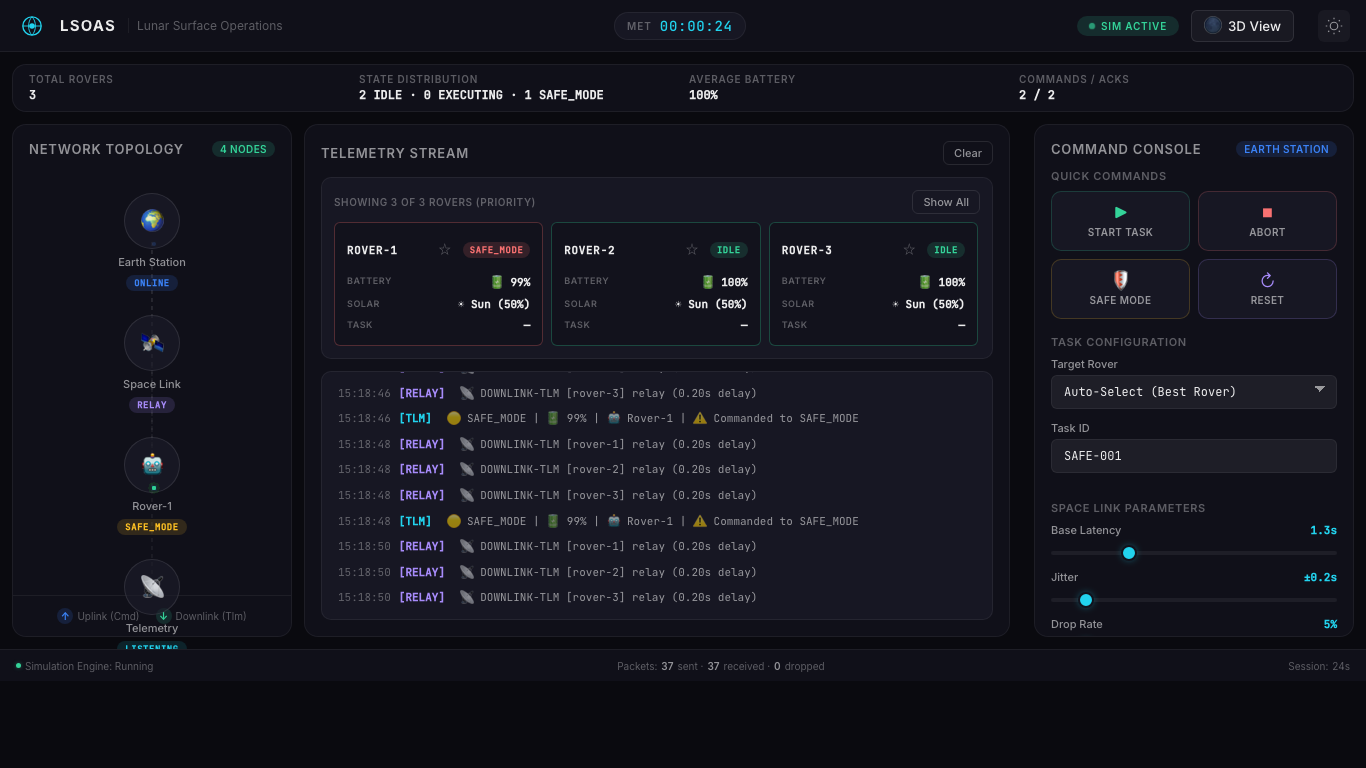
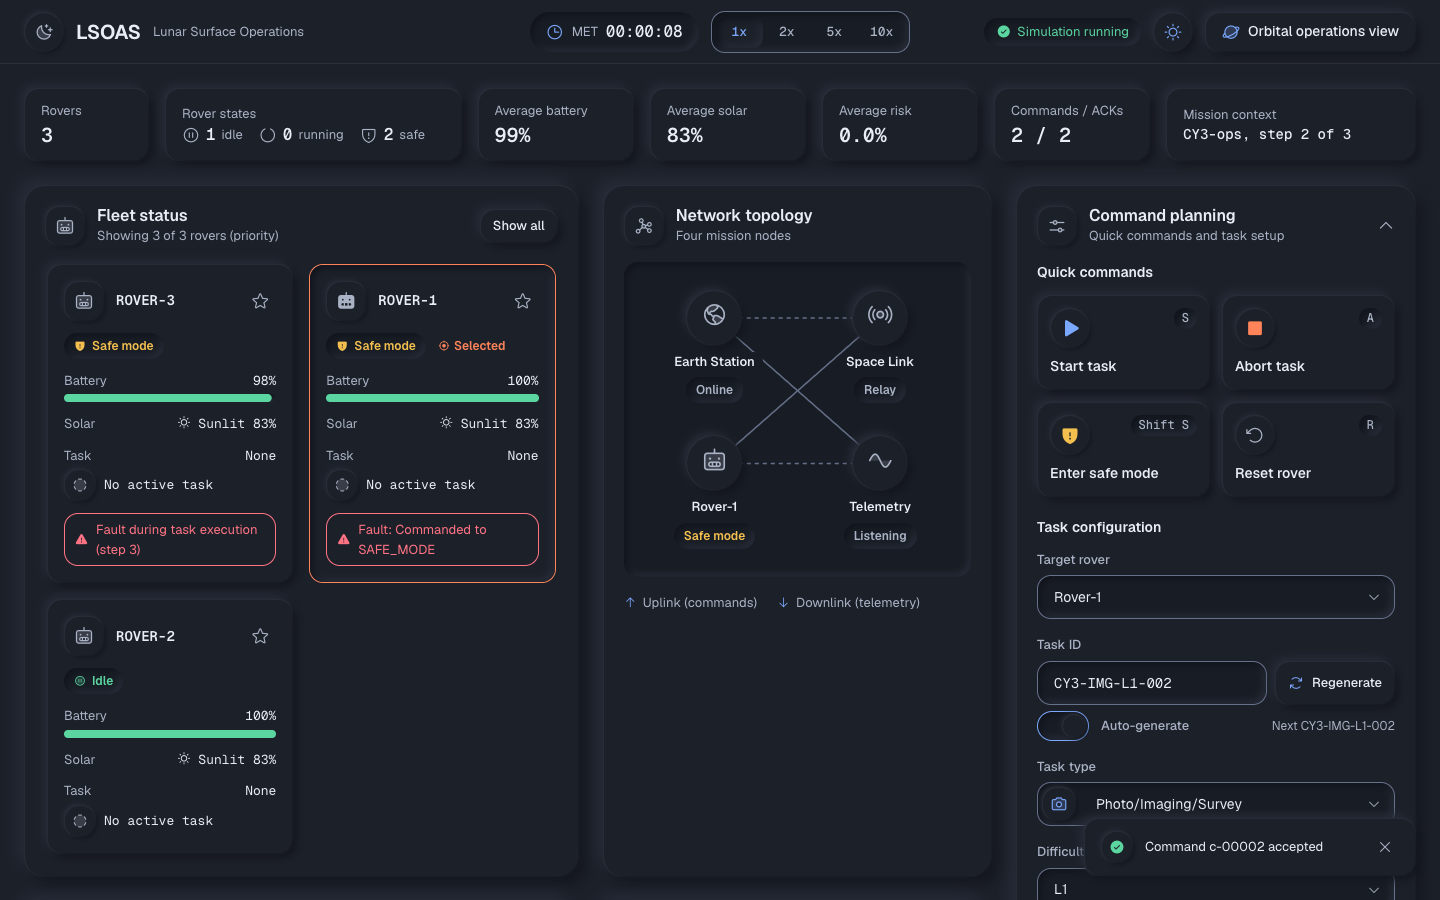
docs(web-sim): copy, facts and README for the soft-UI overhaul
Copy
- Sentence-case state labels in topology chips, one casing for the orbital
  view, no doubled "Fault: Fault" text
- Footer states that telemetry, risk and fault values are simulated
- Mission preset blurbs and tags grounded in the ISRO and JAXA sources:
  CY-3 (LIBS, APXS), CY-4 (drill and scoop, robotic arm, ascent module,
  launch planned 2027-28), LUPEX (JAXA and ISRO, no earlier than 2028),
  base build labeled as a teaching scenario

Accessibility
- Darken light-theme warning and danger colors for a safer AA margin
  (lowest measured text ratio: 4.69:1 light, 5.96:1 dark)

README
- Replace three dead source links (ISRO Chandrayaan-3 updates, Chandrayaan-4
  approval, JAXA LUPEX) with verified ones and add dated mission status
- Label difficulty fault rates as simulation parameters
- Document the web UI files, themes, keyboard shortcuts and test command
- Regenerate all dashboard screenshots from the new UI and add the orbital view

diff --git a/web-sim/app.js b/web-sim/app.js
@@ -124,15 +124,15 @@
     const viewportWidth = window.innerWidth || 1280;
     if (viewportWidth <= 520) return "Orbital";
     if (viewportWidth <= 920) return "Orbital view";
-    return "Orbital Operations View";
+    return "Orbital operations view";
   }
 
   function refreshOrbitalToggleLabel(open) {
     if (!btnToggleLabel) return;
     const nextLabel = getResponsiveOrbitalToggleLabel();
     const actionLabel = open
-      ? "Close Orbital Operations View"
-      : "Open Orbital Operations View";
+      ? "Close orbital operations view"
+      : "Open orbital operations view";
     btnToggleLabel.textContent = nextLabel;
     if (btnToggle) {
       btnToggle.setAttribute("title", actionLabel);
@@ -411,8 +411,8 @@
       mission_phase: "CY3-ops",
       title: "Chandrayaan-3 Pragyan Surface Ops",
       summary:
-        "Traverse, image, and run in-situ surface science analogs around a Pragyan-style landing zone.",
-      payload_tags: ["Pragyan", "LIBS", "APXS", "NavCam"],
+        "Traverse, image and run in-situ science near a Pragyan-style landing zone. Based on Chandrayaan-3, whose rover carried LIBS and APXS spectrometers.",
+      payload_tags: ["Pragyan rover", "LIBS", "APXS", "NavCam"],
       default_target_site: "Shiv Shakti Point Sector-A",
       default_rover_strategy: "rover-1",
       steps: [
@@ -447,8 +447,8 @@
       mission_phase: "CY4-sample-chain",
       title: "Chandrayaan-4 Sample Return Chain",
       summary:
-        "A teaching sequence for prospecting, extraction, sample custody, and transfer preparation.",
-      payload_tags: ["Sampling Drill", "Transfer Canister", "Surface Relay"],
+        "Prospecting, drilling, sample custody and transfer, modeled on ISRO's Chandrayaan-4 sample-return plan (launch planned for 2027-28).",
+      payload_tags: ["Drill and scoop", "Robotic arm", "Ascent module"],
       default_target_site: "Sample Depot Alpha",
       default_rover_strategy: "rover-2",
       steps: [
@@ -491,8 +491,8 @@
       mission_phase: "LUPEX-prospecting",
       title: "LUPEX Polar Ice Prospecting",
       summary:
-        "Polar traverse and subsurface investigation sequence focused on volatile resource mapping.",
-      payload_tags: ["Polar Traverse", "Volatile Mapping", "Drill Ops"],
+        "South polar water-ice survey modeled on the joint JAXA and ISRO LUPEX mission (launch no earlier than 2028).",
+      payload_tags: ["JAXA and ISRO", "Water-ice survey", "Drill"],
       default_target_site: "Polar Shadow Boundary",
       default_rover_strategy: "rover-3",
       steps: [
@@ -527,7 +527,7 @@
       mission_phase: "base-build",
       title: "Future Chandrayaan Base Build",
       summary:
-        "Multipurpose swarm scenario for regolith logistics, infrastructure staging, and base readiness.",
+        "Teaching scenario (not an announced mission): a rover swarm handling regolith logistics and base readiness.",
       payload_tags: ["Swarm Ops", "Regolith Handling", "Infrastructure Build"],
       default_target_site: "Bharati Base Site-01",
       default_rover_strategy: "auto",
@@ -1328,7 +1328,13 @@
     const hasFault = Boolean(snapshot.fault);
     const hadFault = el.dataset.fault === "1";
     r.fault.hidden = !hasFault;
-    if (hasFault) setText(r["fault-text"], `Fault: ${String(snapshot.fault)}`);
+    if (hasFault) {
+      const faultText = String(snapshot.fault);
+      setText(
+        r["fault-text"],
+        /^fault/i.test(faultText) ? faultText : `Fault: ${faultText}`,
+      );
+    }
     el.dataset.fault = hasFault ? "1" : "";
     if (hasFault && !hadFault) LSOASUI.pulse(r["fault-icon"]);
   }
@@ -1921,7 +1927,7 @@
     }
 
     // Selected rover topo node state
-    dom.roverState.textContent = normalizeState(data.state);
+    dom.roverState.textContent = LSOASUI.roverState(data.state).label;
     dom.roverState.className = `topo-node-state ${stateClass}`;
 
     // Add telemetry to feed

diff --git a/web-sim/index.html b/web-sim/index.html
@@ -92,13 +92,13 @@
           class="btn"
           id="btn-3d-toggle"
           type="button"
-          title="Open Orbital Operations View"
-          aria-label="Open Orbital Operations View"
+          title="Open orbital operations view"
+          aria-label="Open orbital operations view"
           aria-expanded="false"
           aria-haspopup="dialog"
         >
           <i class="ph-duotone ph-planet" aria-hidden="true"></i>
-          <span id="btn-3d-toggle-label">Orbital Operations View</span>
+          <span id="btn-3d-toggle-label">Orbital operations view</span>
         </button>
       </div>
     </header>
@@ -214,7 +214,7 @@
                   <span class="topo-node-icon" aria-hidden="true"><i class="ph-duotone ph-globe-hemisphere-west"></i></span>
                 </div>
                 <span class="topo-node-label">Earth Station</span>
-                <span class="topo-node-state" id="earth-state">ONLINE</span>
+                <span class="topo-node-state" id="earth-state">Online</span>
               </div>
 
               <div class="topo-node" id="topo-spacelink" data-node="spacelink" tabindex="0" role="button" aria-label="Space Link node">
@@ -222,7 +222,7 @@
                   <span class="topo-node-icon" aria-hidden="true"><i class="ph-duotone ph-broadcast"></i></span>
                 </div>
                 <span class="topo-node-label">Space Link</span>
-                <span class="topo-node-state" id="spacelink-state">RELAY</span>
+                <span class="topo-node-state" id="spacelink-state">Relay</span>
               </div>
 
               <div class="topo-node" id="topo-rover" data-node="rover" tabindex="0" role="button" aria-label="Lunar Rover node">
@@ -230,7 +230,7 @@
                   <span class="topo-node-icon" aria-hidden="true"><i class="ph-duotone ph-robot"></i></span>
                 </div>
                 <span class="topo-node-label">Lunar Rover</span>
-                <span class="topo-node-state" id="rover-state">IDLE</span>
+                <span class="topo-node-state" id="rover-state">Idle</span>
               </div>
 
               <div class="topo-node" id="topo-telemetry" data-node="telemetry" tabindex="0" role="button" aria-label="Telemetry node">
@@ -238,7 +238,7 @@
                   <span class="topo-node-icon" aria-hidden="true"><i class="ph-duotone ph-wave-sine"></i></span>
                 </div>
                 <span class="topo-node-label">Telemetry</span>
-                <span class="topo-node-state" id="telemetry-state">LISTENING</span>
+                <span class="topo-node-state" id="telemetry-state">Listening</span>
               </div>
             </div>
             <ul class="signal-legend">
@@ -540,7 +540,7 @@
       <footer id="bottom-bar">
         <span class="footer-item">
           <i class="ph ph-cpu" aria-hidden="true"></i>
-          Simulation engine running
+          Simulation engine running. All telemetry, risk and fault values are simulated.
         </span>
         <span class="footer-item" id="footer-packets">
           Packets:
@@ -567,7 +567,7 @@
             <i class="ph ph-pause" aria-hidden="true"></i>
             <span>Pause</span>
           </button>
-          <button class="btn btn-icon" id="btn-close-3d" type="button" title="Close orbital view" aria-label="Close Orbital View">
+          <button class="btn btn-icon" id="btn-close-3d" type="button" title="Close orbital view" aria-label="Close orbital view">
             <i class="ph ph-x" aria-hidden="true"></i>
           </button>
         </header>

diff --git a/web-sim/tokens.css b/web-sim/tokens.css
@@ -141,10 +141,10 @@
 
     --ok: #096b3d;
     --ok-soft: rgba(9, 107, 61, 0.13);
-    --warn: #8a5a00;
-    --warn-soft: rgba(138, 90, 0, 0.14);
-    --danger: #c2182f;
-    --danger-soft: rgba(194, 24, 47, 0.12);
+    --warn: #7f5200;
+    --warn-soft: rgba(127, 82, 0, 0.14);
+    --danger: #b3122a;
+    --danger-soft: rgba(179, 18, 42, 0.12);
 
     --focus: #1d4bb8;
     --scene-bg: #d3d9e4;
@@ -176,10 +176,10 @@
 
   --ok: #096b3d;
   --ok-soft: rgba(9, 107, 61, 0.13);
-  --warn: #8a5a00;
-  --warn-soft: rgba(138, 90, 0, 0.14);
-  --danger: #c2182f;
-  --danger-soft: rgba(194, 24, 47, 0.12);
+  --warn: #7f5200;
+  --warn-soft: rgba(127, 82, 0, 0.14);
+  --danger: #b3122a;
+  --danger-soft: rgba(179, 18, 42, 0.12);
 
   --focus: #1d4bb8;
   --scene-bg: #d3d9e4;

diff --git a/README.md b/README.md
@@ -27,14 +27,23 @@ The project is now redesigned around a Chandrayaan-themed future mission concept
 
 ### Reality Basis
 
-Real mission references:
+Real mission references (links checked 2026-09-30):
 
 - [ISRO Chandrayaan-3 details](https://www.isro.gov.in/Chandrayaan3_Details.html)
-- [ISRO Chandrayaan-3 updates (Pragyan payload operations)](https://www.isro.gov.in/Ch3_Details.html)
-- [ISRO Chandrayaan-4 approval and mission objectives](https://www.isro.gov.in/UnionCabinetapprovesChandrayaan4mission.html)
-- [JAXA LUPEX mission overview](https://global.jaxa.jp/projects/sas/lupex/)
+- [ISRO Chandrayaan-3 launch vehicle brochure (PDF)](https://www.isro.gov.in/media_isro/pdf/Missions/LVM3/LVM3M4_Chandrayaan3_brochure.pdf)
+- [PIB: Union Cabinet approval for Chandrayaan-4](https://www.pib.gov.in/PressReleasePage.aspx?PRID=2055983)
+- [ISRO: Chandrayaan-4 lunar sample return national science meet](https://www.isro.gov.in/ISRO_Nationalsciencemeet_ch4.html)
+- [JAXA: Lunar Polar Exploration Mission (LUPEX)](https://www.exploration.jaxa.jp/e/program/lunarpolar/)
 
-Future extrapolation in this repo:
+What those sources say, and what this repo does with it:
+
+- **Chandrayaan-3.** The 26 kg Pragyan rover carried a LIBS and an APXS spectrometer and was designed for one lunar day (about 14 Earth days). It landed near the south pole at Shiv Shakti Point on 23 August 2023 ([dates: Wikipedia](https://en.wikipedia.org/wiki/Chandrayaan-3)). The CY3 preset is a teaching analog of that surface work.
+- **Chandrayaan-4.** Approved by the Union Cabinet in September 2024. The goal is to land, collect a sample with a robotic arm, launch from the surface and return it to Earth, with a south polar landing site near permanently shadowed regions. ISRO's page lists a 2027 timeline; more recent ISRO statements point to 2028 ([reporting](https://www.deccanherald.com/india/isro-to-triple-spacecraft-output-launch-chandrayaan-4-in-2028-chairman-v-narayanan-3799777)). The CY4 preset models the sample chain, not the real mission timeline.
+- **LUPEX.** A joint JAXA and ISRO south polar mission (India calls it Chandrayaan-5) with NASA and ESA instruments, planned on a Japanese H3 rocket, no earlier than 2028 according to JAXA. The LUPEX preset models a water-ice survey in that spirit.
+
+Mission dates move often. Treat the linked pages as the source of truth.
+
+Future extrapolation in this repo (not an announced mission):
 
 - Multi-purpose rover swarm for base predeploy and base-build logistics.
 - Pushing/regolith handling and sample transfer workflows at larger operational scale.
@@ -53,6 +62,8 @@ Future extrapolation in this repo:
 6. `sample-handling` - transfer/handling pipeline
 
 ### Difficulty Levels
+
+These are simulation model parameters chosen for teaching, not published mission data.
 
 | Level | Base Fault Rate |
 | --- | --- |
@@ -102,6 +113,8 @@ Supporting docs:
 
 ## Dashboard Screenshots
 
+Captured from the web simulation at 1440 x 900 with the scenario query parameters listed under Quick Start.
+
 ### Main Mission Dashboard States
 
 Idle operations
@@ -118,23 +131,27 @@ Safe mode command flow
 
 ### Mission Setup and Selection Flows
 
-Battery-informed rover selection
+Auto-selected rover (best battery and capability match)
 
-![Battery-informed rover selection](docs/screenshots/phase1-battery-selection.png)
+![Auto-selected rover](docs/screenshots/phase1-battery-selection.png)
 
 Manual rover selection
 
 ![Manual rover selection](docs/screenshots/phase1-manual-selection.png)
 
-Telemetry-first mission stream
+Telemetry stream and command log during a digging task
 
 ![Telemetry stream focus](docs/screenshots/phase1-telemetry-load.png)
 
-### Visual Theme Variant
+### Themes and Orbital View
 
-Light theme reference
+Light theme
 
 ![Light theme dashboard view](docs/screenshots/dashboard-light-theme.png)
+
+Orbital operations view (dialog)
+
+![Orbital operations view](docs/screenshots/dashboard-orbital.png)
 
 ---
 
@@ -157,8 +174,44 @@ Useful query params:
 - `?scenario=safe-mode&task=CY4-SAMPLE-008&task_type=sample-handling&difficulty=L4`
 - `?mission=cy3-pragyan`
 - `?mission=cy4-sample-return&target_site=Sample%20Depot%20Alpha`
+- `?open3d=1` opens the orbital view on load
 
 Dashboard task IDs are auto-generated (mission + task type + difficulty + sequence), and can still be manually edited at any time.
+
+### Web Simulation UI
+
+A soft-UI (neumorphic) mission control dashboard. No build step: plain HTML, CSS and JavaScript.
+
+| File | Role |
+| --- | --- |
+| `web-sim/index.html` | Markup |
+| `web-sim/tokens.css` | Design tokens: colors, one radius scale, shadows, motion, fonts. Dark, light, high-contrast and forced-colors variants |
+| `web-sim/styles.css` | Layout and components |
+| `web-sim/theme.js` | Applies the saved theme before first paint |
+| `web-sim/ui.js` | Theme toggle, segmented controls, dialog focus trap, toasts, number count-ups, icon maps |
+| `web-sim/app.js` | Controller that connects the UI to the simulation |
+| `web-sim/simulation.js` | Browser-side simulation engine |
+| `web-sim/lunar3d.js` | Orbital scene. Three.js and the textures load the first time the orbital view opens |
+
+Design notes:
+
+- Dark theme by default, light theme from the system setting or the header toggle (saved in `localStorage`). Text and icons meet WCAG AA contrast on every surface (4.5:1 text, 3:1 icons and control borders). Shadows never carry state on their own: state is also shown with text, icons or an accent color.
+- Two accents: blue for interactive and selected, orange for the active rover or task. Green, amber and red are status colors only.
+- Fonts: Geist and Geist Mono, self-hosted in `web-sim/assets/fonts`. Icons: Phosphor, loaded from the jsDelivr CDN. Without the CDN the icons are missing but every control still has a text label.
+- Motion uses only `transform` and `opacity`, one easing curve, and is removed under `prefers-reduced-motion`. The only looping animation is the spinner on a running rover.
+- Keyboard: `S` start task, `A` abort, `Shift+S` safe mode, `R` reset rover. In the orbital view: `F` focus rover, `H` reset view, `T` top view, `Esc` closes.
+- Asset credits are in `web-sim/assets/CREDITS.txt`.
+
+Run the Playwright tests (they expect the server on port 8085):
+
+```bash
+cd web-sim
+npm ci
+python3 -m http.server 8085 &
+npx playwright test --project=chromium
+```
+
+The `webkit` project also needs `npx playwright install webkit`.
 
 ### ROS 2 Simulation
 
